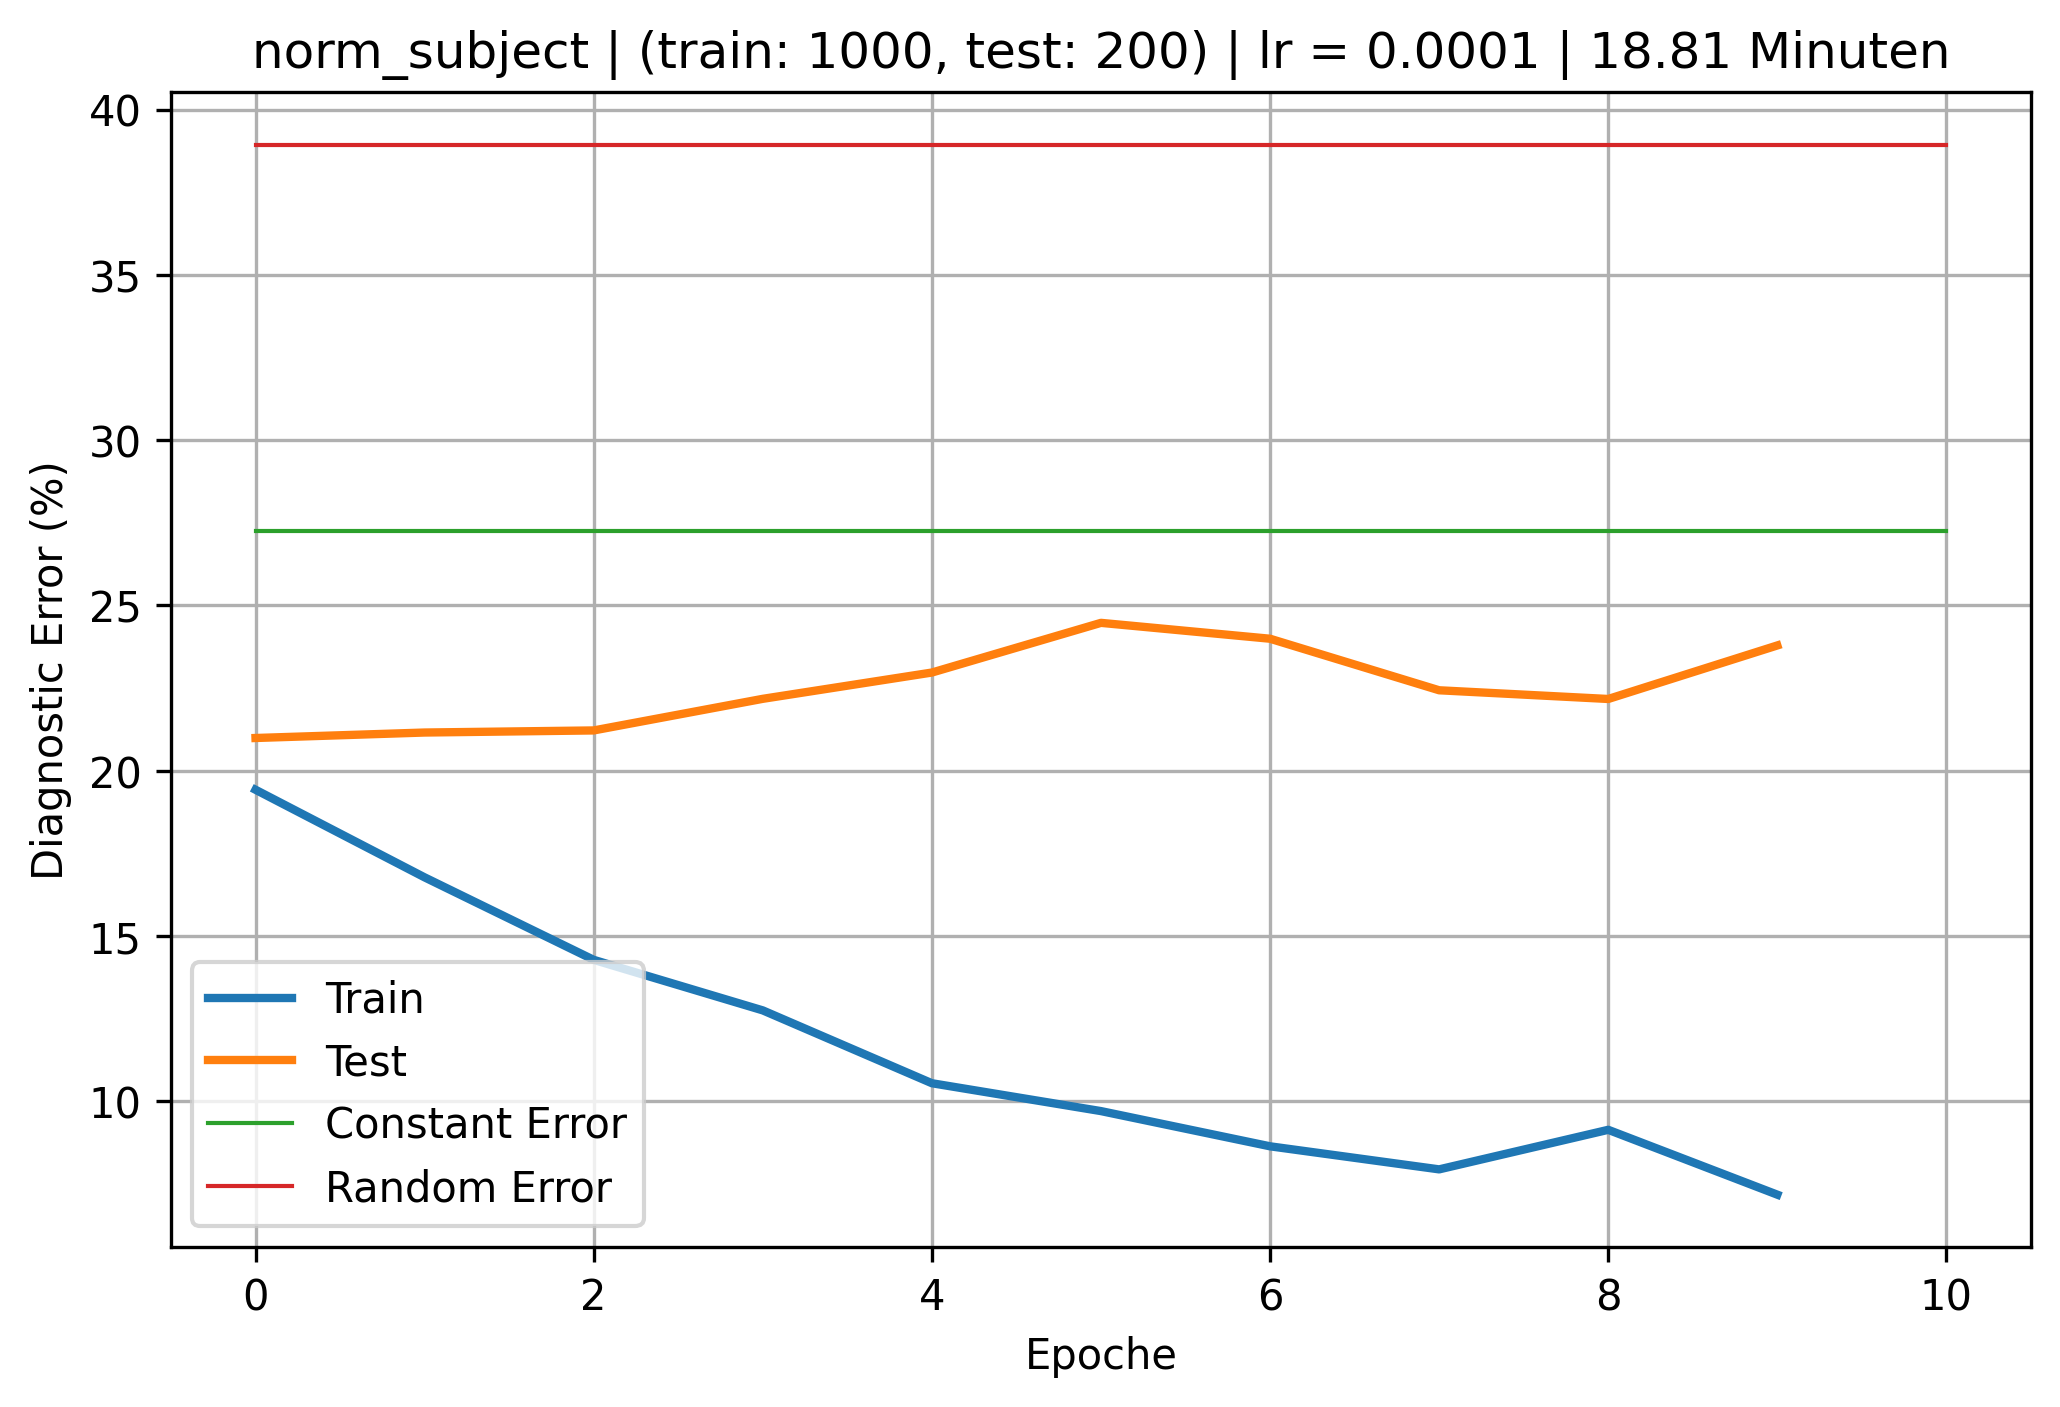
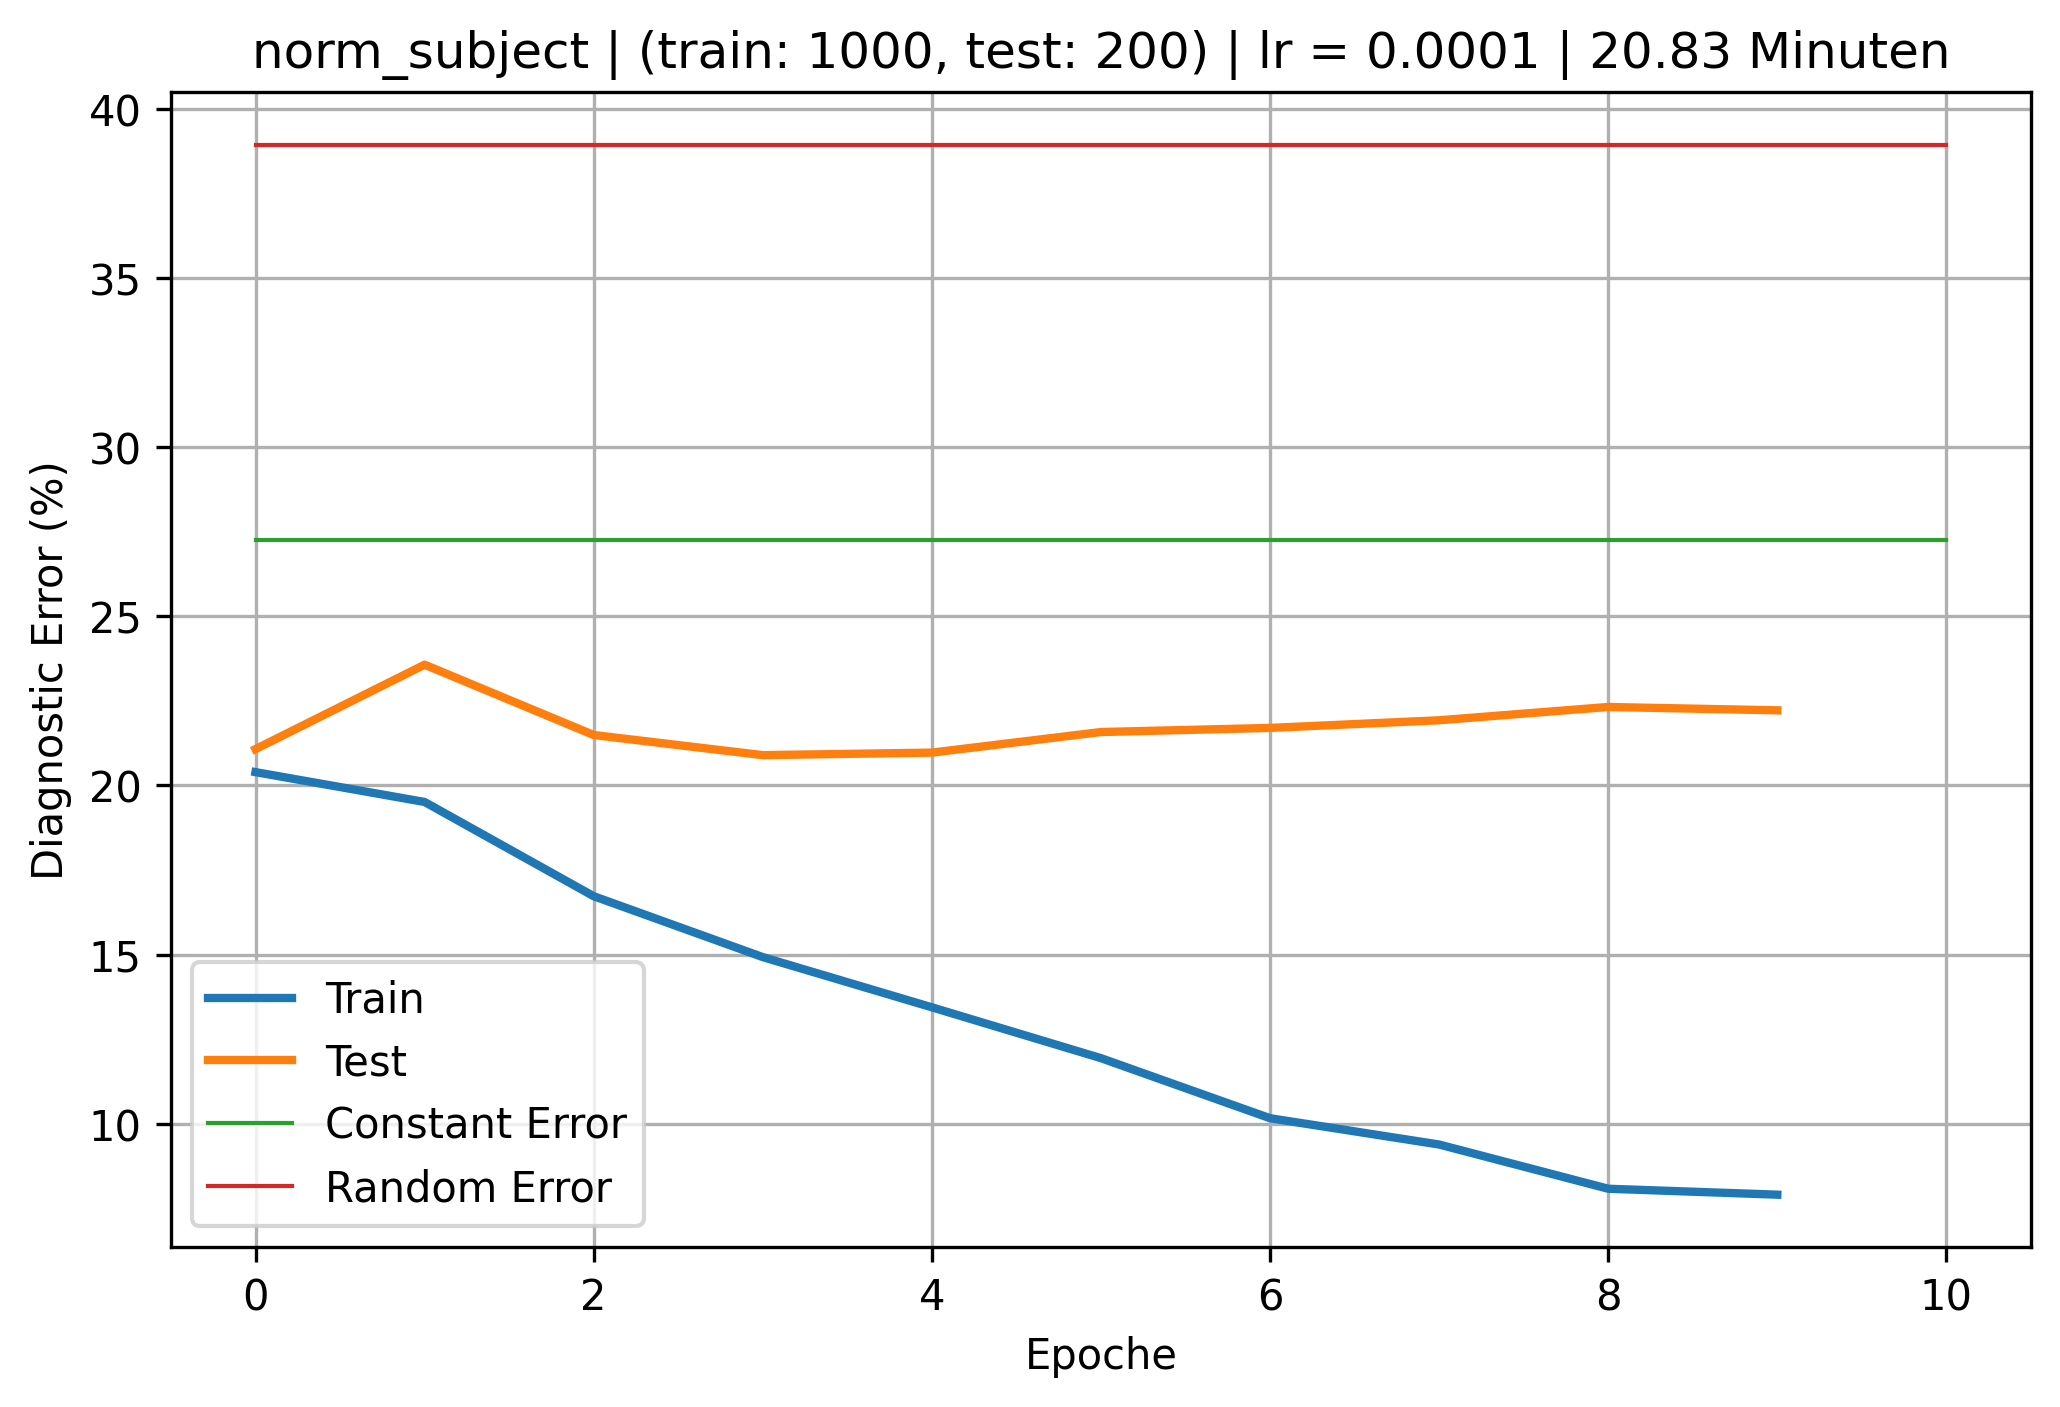
try with different learning-rate to find the best model

diff --git a/model_train.py b/model_train.py
@@ -109,16 +109,18 @@ def diagonal_errors(model, loader, device):
 def main():
 
     # 3: Hyperparameter
-    # def_dataset_size = [1000, 200]
-    def_dataset_size = [10000, 2000]
+    def_dataset_size = [1000, 200]
+    # def_dataset_size = [10000, 2000]
     
     optimizer_name = "AdamW"
     batch_Size = 64
 
+
     epochs = 10
     # epochs = 2
 
-    learning_rate = 1e-4
+    # learning_rate = 1e-4
+    learning_rate = 1e-5
     weight_Decay = 1e-4
     
 
@@ -157,29 +159,29 @@ def main():
 
     # Dataset:
 
-    # def_dataset = 'norm_subject'
-    #
-    # train_dataset = GazeDataset(
-    #     "./splits/norm_subject_train.csv",
-    #     transform, dataset_size=def_dataset_size[0],
-    # )
-    #
-    # test_dataset = GazeDataset(
-    #     "./splits/norm_subject_test.csv",
-    #     transform, dataset_size=def_dataset_size[1],
-    # )
-
-    def_dataset = 'norm_random'
+    def_dataset = 'norm_subject'
 
     train_dataset = GazeDataset(
-        "./splits/norm_random_train.csv",
+        "./splits/norm_subject_train.csv",
         transform, dataset_size=def_dataset_size[0],
     )
 
     test_dataset = GazeDataset(
-        "./splits/norm_random_test.csv",
+        "./splits/norm_subject_test.csv",
         transform, dataset_size=def_dataset_size[1],
     )
+
+    # def_dataset = 'norm_random'
+    #
+    # train_dataset = GazeDataset(
+    #     "./splits/norm_random_train.csv",
+    #     transform, dataset_size=def_dataset_size[0],
+    # )
+    #
+    # test_dataset = GazeDataset(
+    #     "./splits/norm_random_test.csv",
+    #     transform, dataset_size=def_dataset_size[1],
+    # )
 
     # Loader:
     train_loader = DataLoader(
@@ -341,7 +343,7 @@ def main():
         if best_error is None or test_rmse < best_error:
             best_error = test_rmse
             torch.save(model.state_dict(),
-                    f"./models/{model_name}_best-model_{def_dataset}_{def_dataset_size[0]}-{def_dataset_size[1]}.path")
+                    f"./models/{model_name}_optim-model_{def_dataset}_{def_dataset_size[0]}-{def_dataset_size[1]}.path")
 
         epoch_end = time.perf_counter()
 
@@ -354,7 +356,7 @@ def main():
         )
 
         torch.save(model.state_dict(),
-                   f"./models/{model_name}_last-model_{def_dataset}_{def_dataset_size[0]}-{def_dataset_size[1]}.path")
+                   f"./models/{model_name}_last-optim-model_{def_dataset}_{def_dataset_size[0]}-{def_dataset_size[1]}.path")
 
 
     train_end = time.perf_counter()
